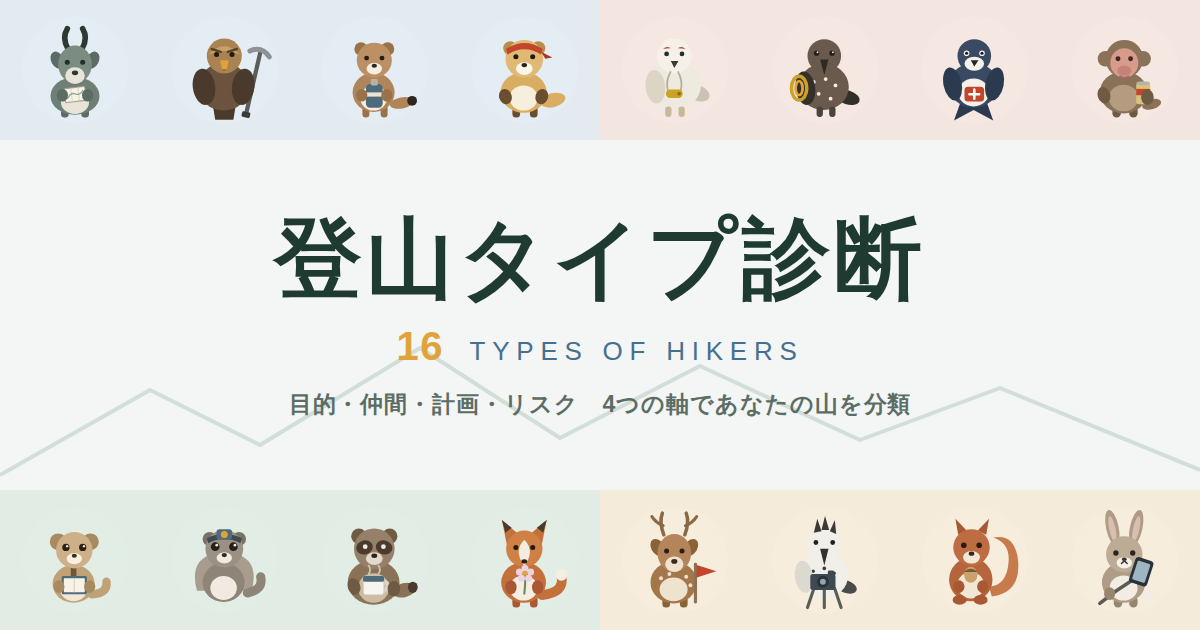
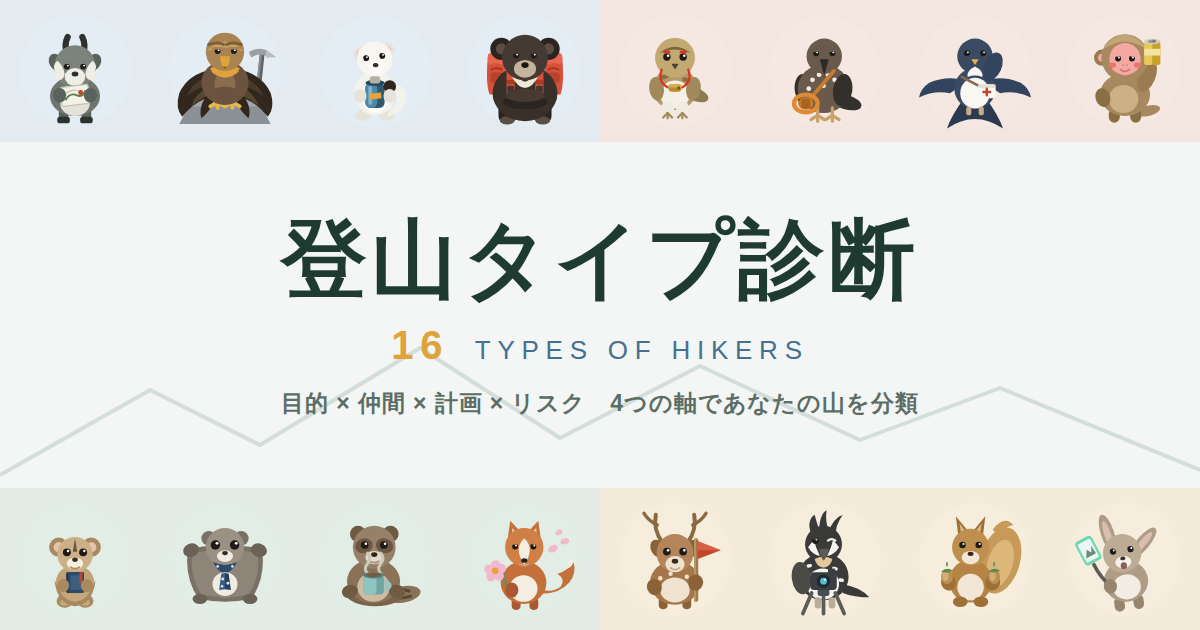
Add files via upload

diff --git a/index.html b/index.html
@@ -40,8 +40,8 @@
     <div class="hero">
       <div class="cast" id="cast-top"><!-- 孤峰・稜線 --></div>
       <h1 class="hero-title">登山タイプ診断</h1>
-      <p class="hero-beta"><span class="beta">Ver.0.80 Takao / 2026.09.11</span></p>
       <p class="hero-en"><b>16</b> TYPES OF HIKERS</p>
+      <p class="hero-ver">Ver.0.80 Takao / 2026.09.11</p>
       <p class="hero-lead">
         <span id="lead-count">14</span>の質問に、AとBで近いほうを選ぶだけ。<br>
         あなたの登山スタイルを<strong>16タイプ</strong>に分類。<br>

diff --git a/style.css b/style.css
@@ -124,7 +124,14 @@ body {
   letter-spacing: .04em;
   margin-bottom: 8px;
 }
-.hero-beta { margin: -4px 0 6px; }
+.hero-ver {
+  font-family: "Outfit", var(--font);
+  font-size: 9px;
+  font-weight: 400;
+  letter-spacing: .1em;
+  color: #B9C6BF;
+  margin: -12px 0 16px;
+}
 .hero-title .beta {
   display: inline-block;
   vertical-align: baseline;
